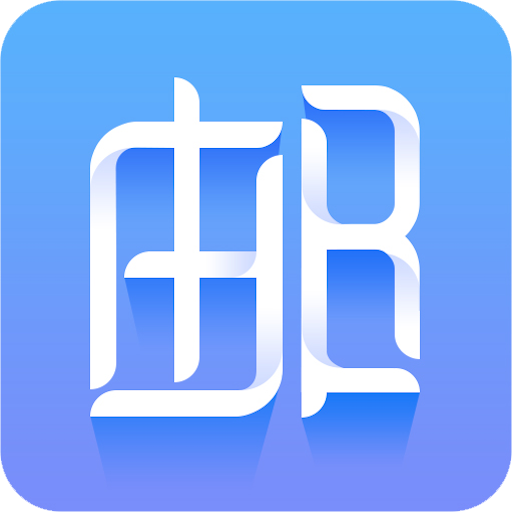
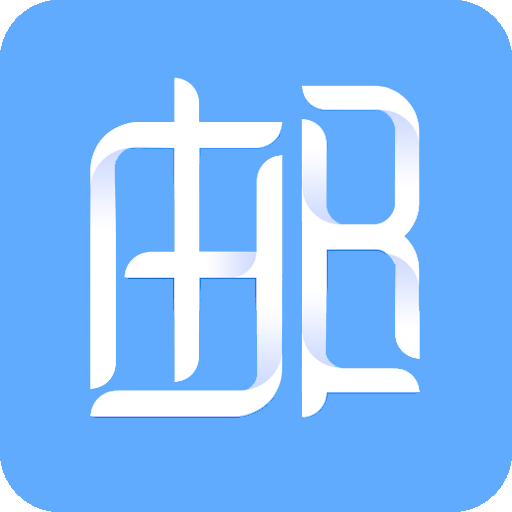
修改掌邮图片

diff --git a/src/data/public/products.js b/src/data/public/products.js
@@ -12,7 +12,7 @@ export const products = {
       subtitle: '移动应用',
       intro: '重邮首款完美整合校园信息与生活的APP。每日课表、志愿时长、校车查询……从线上到线下，全方位辅助重邮学子的日常生活！',
       picture: require('../../assets/product/zscy.png'),
-      background: '#6d9bfb'
+      background: 'rgb(97, 171, 255)'
     },
     {
       title: '网址大全',
